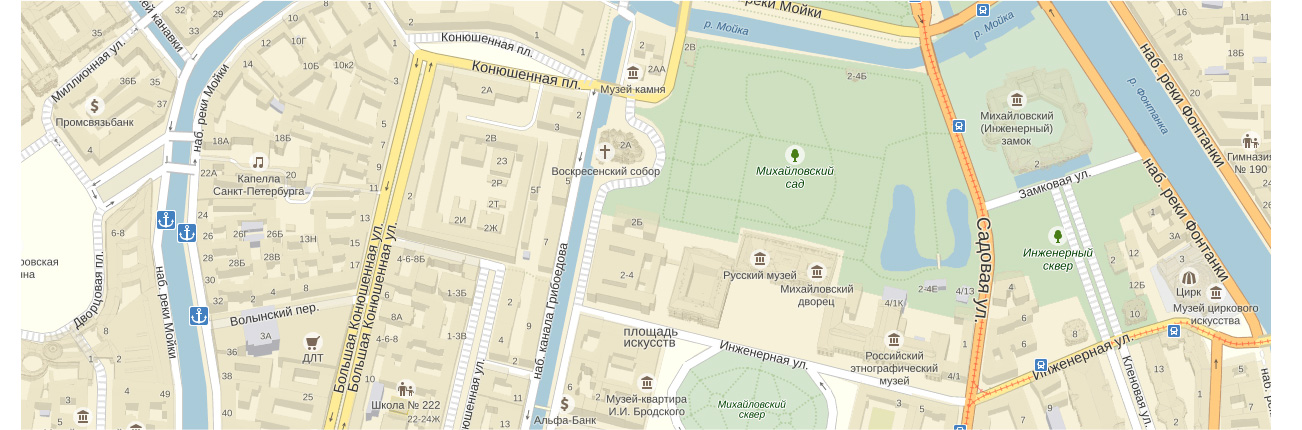
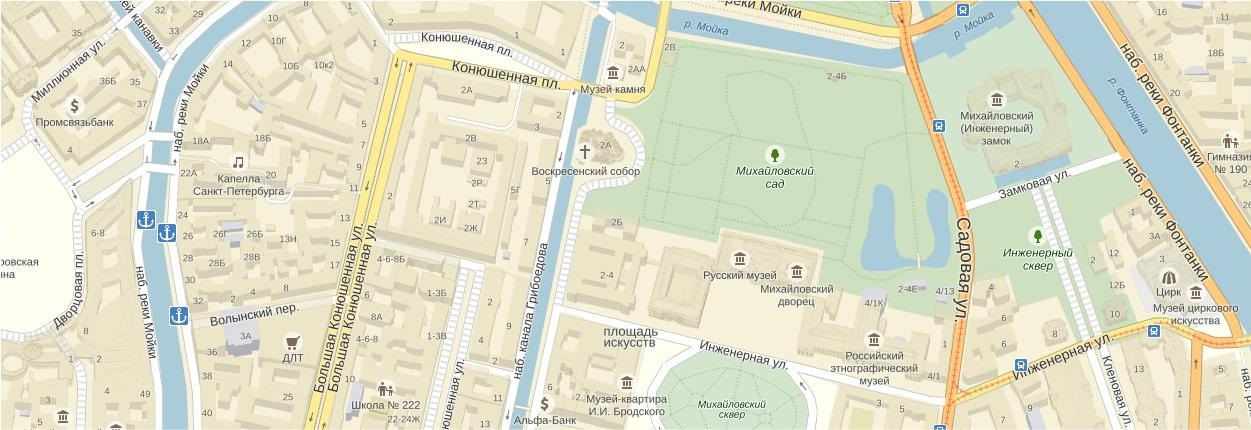
карта - по центру, псевдоэлемент на выпадающее меню.
Но в Microsoft Edge весь интерактив в хедере все равно не работает.

diff --git a/css/style.css b/css/style.css
@@ -13,14 +13,14 @@ body > * > * > * > *  {
   background: rgba(0, 0, 255,0.3);
 }
 
-.pixelperfect.index-page {
+/* .pixelperfect.index-page {
   margin: 0 auto;
   padding: 0;
   background-image: url(../gllacy-index.jpg);
   background-repeat: no-repeat;
   background-position: 0 0;
   width: 1200px;
-}
+} */
 /*
 .pixelperfect.gllacy-catalog {
   margin: 0 auto;
@@ -28,7 +28,7 @@ body > * > * > * > *  {
   background-image: url(../gllacy-catalog.jpg);
   background-repeat: no-repeat;
   background-position: 0 0;
-  width: 1200px;  
+  width: 1200px;
 }
 */
 /*-----------------------page grid-end---------------------------------*/
@@ -160,9 +160,9 @@ header a {
 .main-navigation-item {
   position: relative;
   display: block;
-  line-height: 32px;    
+  line-height: 32px;
   vertical-align: middle ;
-  margin-top: -4px;
+  margin-top: -4px;  
 }
 
 .main-navigation-item:hover > a,
@@ -185,7 +185,8 @@ header a {
   font-size: 16px;
   font-weight: bold;
   text-decoration: none;
-  padding: 0 14px;
+  padding-left: 14px;
+  padding-right: 14px;
 }
 
 .main-navigation-item .submenu {
@@ -205,7 +206,18 @@ header a {
   color: white;
 }
 
-.main-navigation-item:hover .submenu,
+.main-navigation-item:hover .submenu{
+  display: block;
+  position: absolute;
+  z-index: 10;
+  border-collapse: collapse;
+  border-radius: 5px;
+  background-color: #f8f7f4;
+  color: black;
+  top: 35px;
+  white-space: nowrap;
+}
+
 .main-navigation-item:focus-within .submenu {
   display: block;
   position: absolute;
@@ -214,11 +226,24 @@ header a {
   border-radius: 5px;
   background-color: #f8f7f4;
   color: black;
-  top: 30px; 
+  top: 35px;
   white-space: nowrap;
 }
 
-.submenu li:hover,
+.submenu::before {
+  display: block;
+  position: absolute;
+  z-index: 7;
+  content: "";
+  width: 100%;
+  height: 5px;
+  top: -5px;
+}
+
+.submenu li:hover {
+  background-color: #fbded8;
+}
+
 .submenu li:focus-within {
   background-color: #fbded8;
 }
@@ -245,21 +270,21 @@ header a {
 
 .submenu li:first-child {
   font-weight: bold;
-  /*border-bottom: 1px solid rgba(0, 0, 0, 0.2);*/
 }
+
 /*-------------------submenu-end-------------------------------*/
 /*-------------------user-menu---------------------------------*/
 .user-menu {
   display: flex;
   align-items: center;
-  margin-left: auto;
-  margin-top: -4px;
+  margin-left: auto
 }
 
 .user-menu .button {
   font-size: 14px;
   line-height: 33px;
   font-weight: 500;
+  margin-top: -4px;
  }
 
 .user-menu-item:not(:last-child) {
@@ -342,9 +367,9 @@ header a {
 }
 
 .breadcrumbs li:not(:last-child)::after {
-  content: "Ãƒâ€šÃ‚Â»";
+  content: "Â»";
   position: absolute;
-  top: 0; 
+  top: 0;
   right: 7px;
 }
 
@@ -382,7 +407,7 @@ header a {
   margin: auto;
   font-weight: bold;
   font-size: 60px;
-  width: 670px;
+  width: 675px;
   line-height: 60.5px;
   padding-top: 266px;
 }
@@ -515,7 +540,7 @@ header a {
   flex-direction: column;
 }
 
-.calalog article:hover {
+.catalog article:hover {
   background-color: rgba(0, 0, 0, 0.4);
 }
 
@@ -788,18 +813,21 @@ header a {
 /*----------contacts---------------------------------------------------*/
 .contacts {
   position: relative;
-  display: flex;
-  justify-content: flex-end;
   margin-top: 40px;
 }
 
-.contacts .map {
-   position: absolute;
-   z-index: -5;
-   display: block;
-   width: 1302px;
-   left: 50%;
-   margin-left: -651px;
+.contacts-map {
+  position: absolute;
+  z-index: -5;
+  top: 0;
+  left: 50%;
+  margin-left: -600px;
+
+ }
+
+.contacts .container {
+  display: flex;
+  justify-content: flex-end;
  }
 
 .contacts-card {
@@ -812,7 +840,8 @@ header a {
   background-color: white;
   border-radius: 15px;
   padding: 28px 25px;
-  margin: 62px 0;
+  margin-top: 62px;
+  margin-bottom: 63px;
 }
 
 .contacts-item1 {
@@ -876,7 +905,7 @@ footer .social-list {
   list-style: none;
   align-items: center;
   margin: 0;
-  padding: 0; 
+  padding: 0;
   margin-right: 34px;
   margin-top: 10px;
 }

diff --git a/index.html b/index.html
@@ -225,16 +225,18 @@
           </form>
         </section>
       </div>
-      <section class="contacts container">
+      <section class="contacts">
         <h2 class="visually-hidden">Наши контакты</h2>
-        <img class="map" src="img/map.jpg" alt="Карта с местоположением Google" width="1302" height="430">
-        <div class="contacts-card">
-          <p class="contacts-item1">Адрес главного офиса и офлайн-магазина:</p>
-          <p class="contacts-address">ул. Большая Конюшенная 19/8, Санкт-Петербург</p>
-          <p class="contacts-item2">Для заказов по телефону:</p>
-          <a class="contacts-tel" href="tel:+78124502525">8 812 450-25-25</a>
-          <p class="contacts-working-time">(с 10 до 20 ежедневно)</p>
-          <a class="button feedback-button red-button" href="feedback.html">Форма обратной связи</a>
+        <img class="contacts-map" src="img/map.jpg" alt="Карта с местоположением Google" width="1200" height="430">
+        <div class="container">
+          <div class="contacts-card">
+            <p class="contacts-item1">Адрес главного офиса и офлайн-магазина:</p>
+            <p class="contacts-address">ул. Большая Конюшенная 19/8, Санкт-Петербург</p>
+            <p class="contacts-item2">Для заказов по телефону:</p>
+            <a class="contacts-tel" href="tel:+78124502525">8 812 450-25-25</a>
+            <p class="contacts-working-time">(с 10 до 20 ежедневно)</p>
+            <a class="button feedback-button red-button" href="feedback.html">Форма обратной связи</a>
+        </div>
         </div>
       </section>
     </main>
